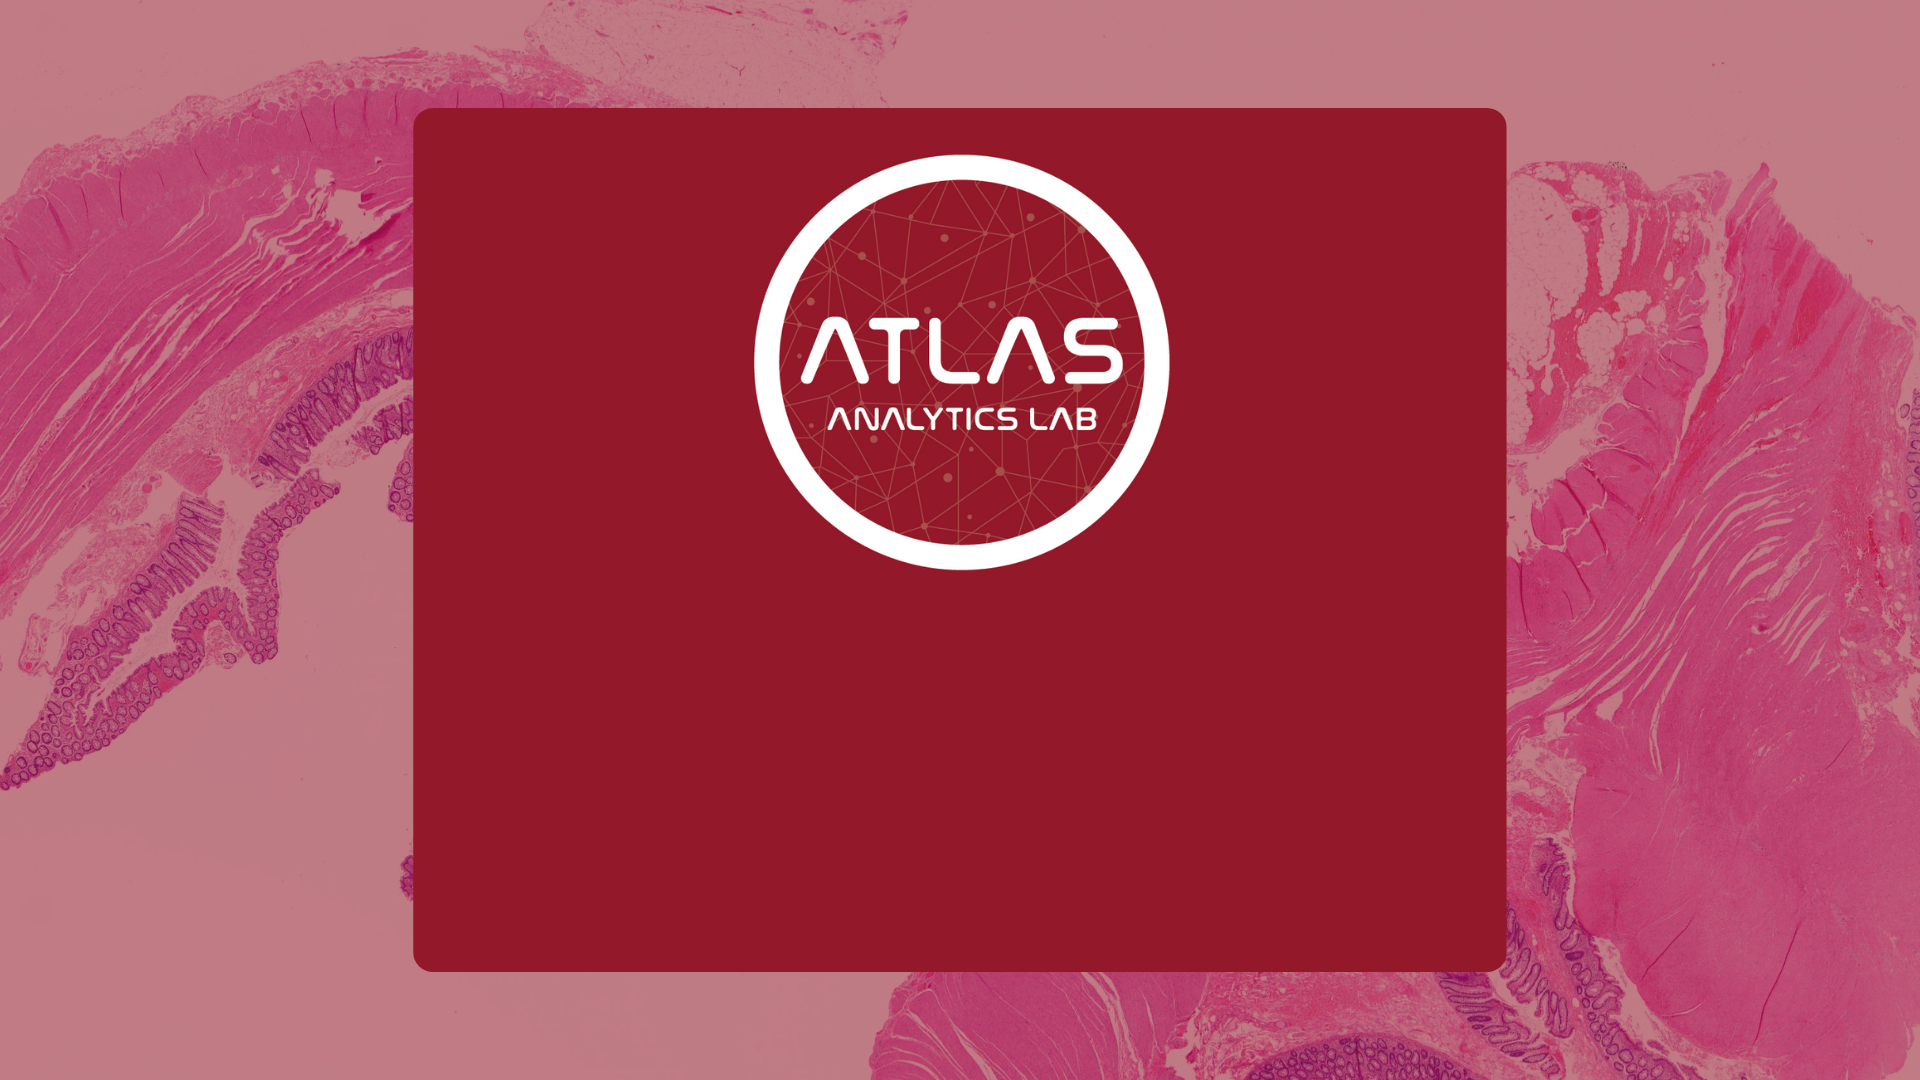
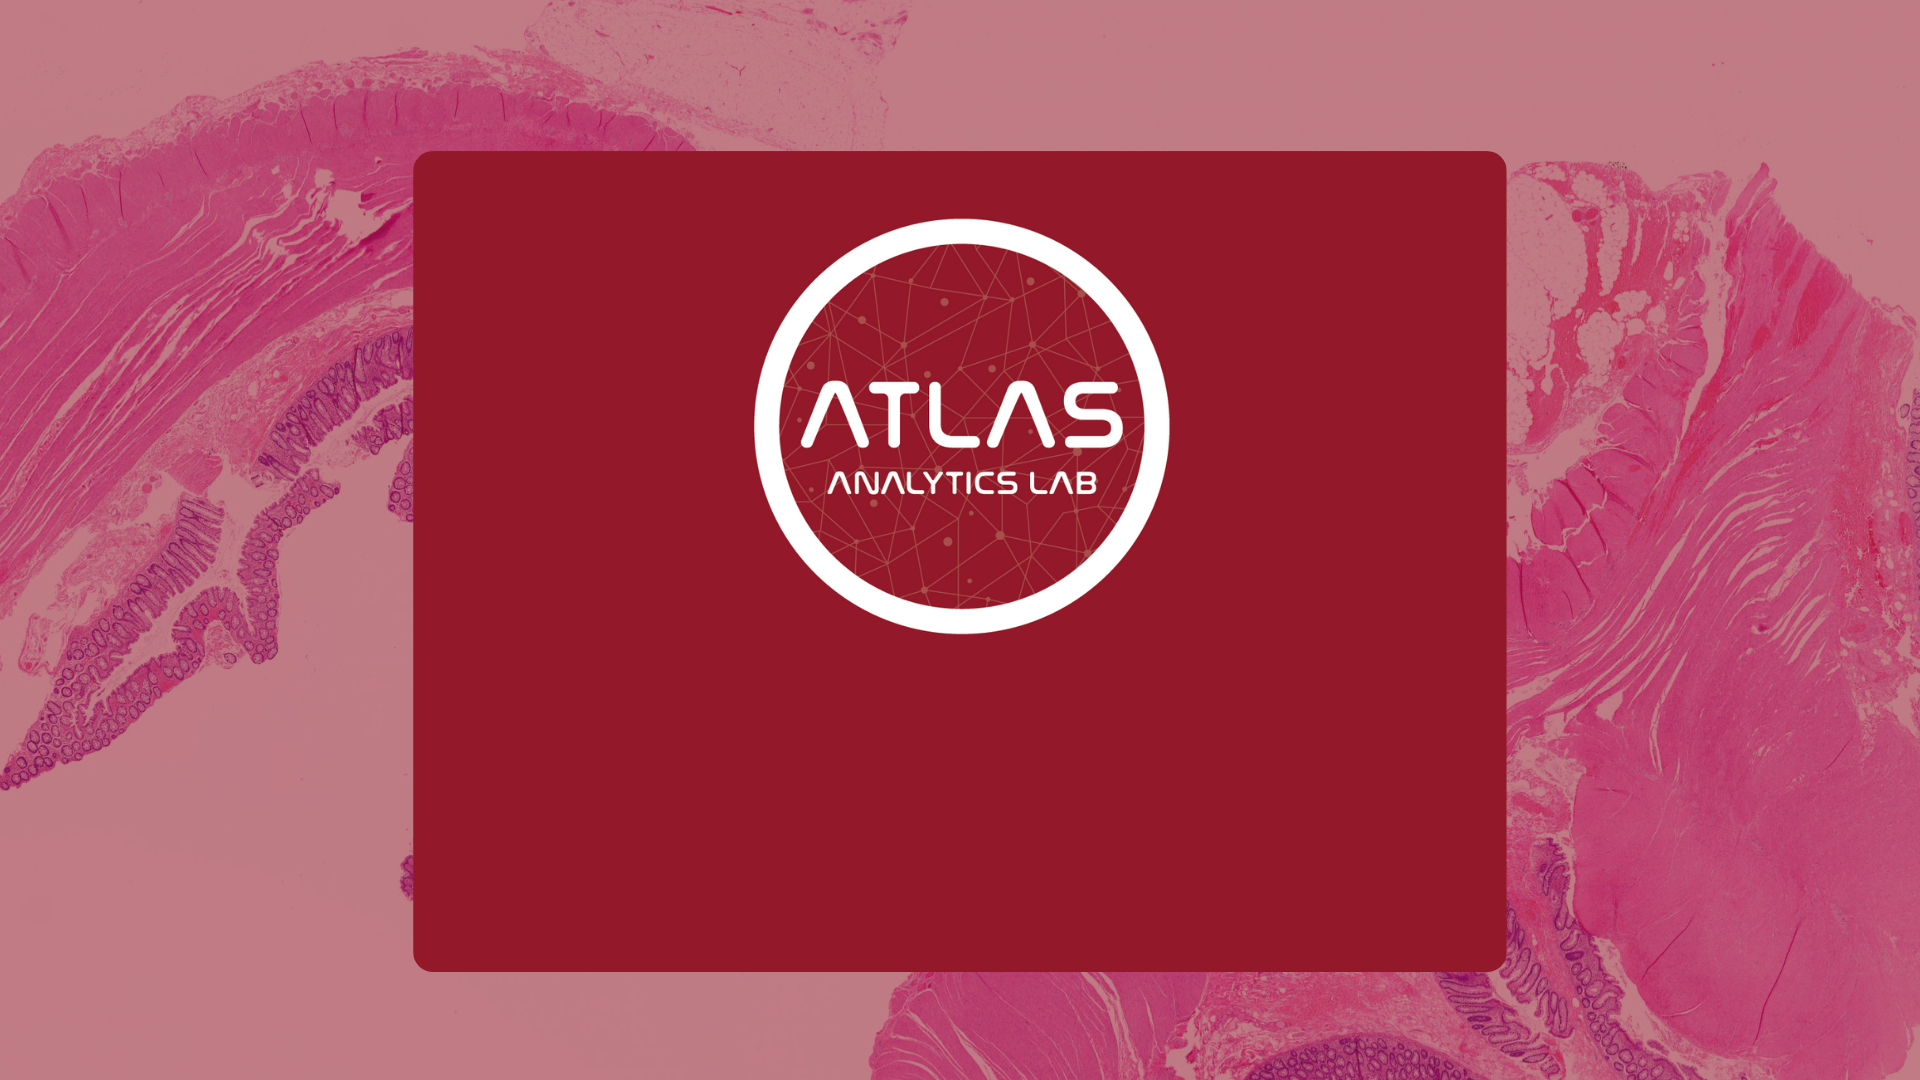
update bg & button

Changed region(s): [[0.1875, 0.0917, 0.8125, 0.6111]]

diff --git a/css/creative.css b/css/creative.css
@@ -430,7 +430,7 @@ fieldset[disabled] .btn-default.active {
     color: var(--BG);
     background-color: var(--WHITE);
     position: relative;
-    top:150px;
+    top:180px;
     -webkit-transition: all .35s;
     -moz-transition: all .35s;
     transition: all .35s;
